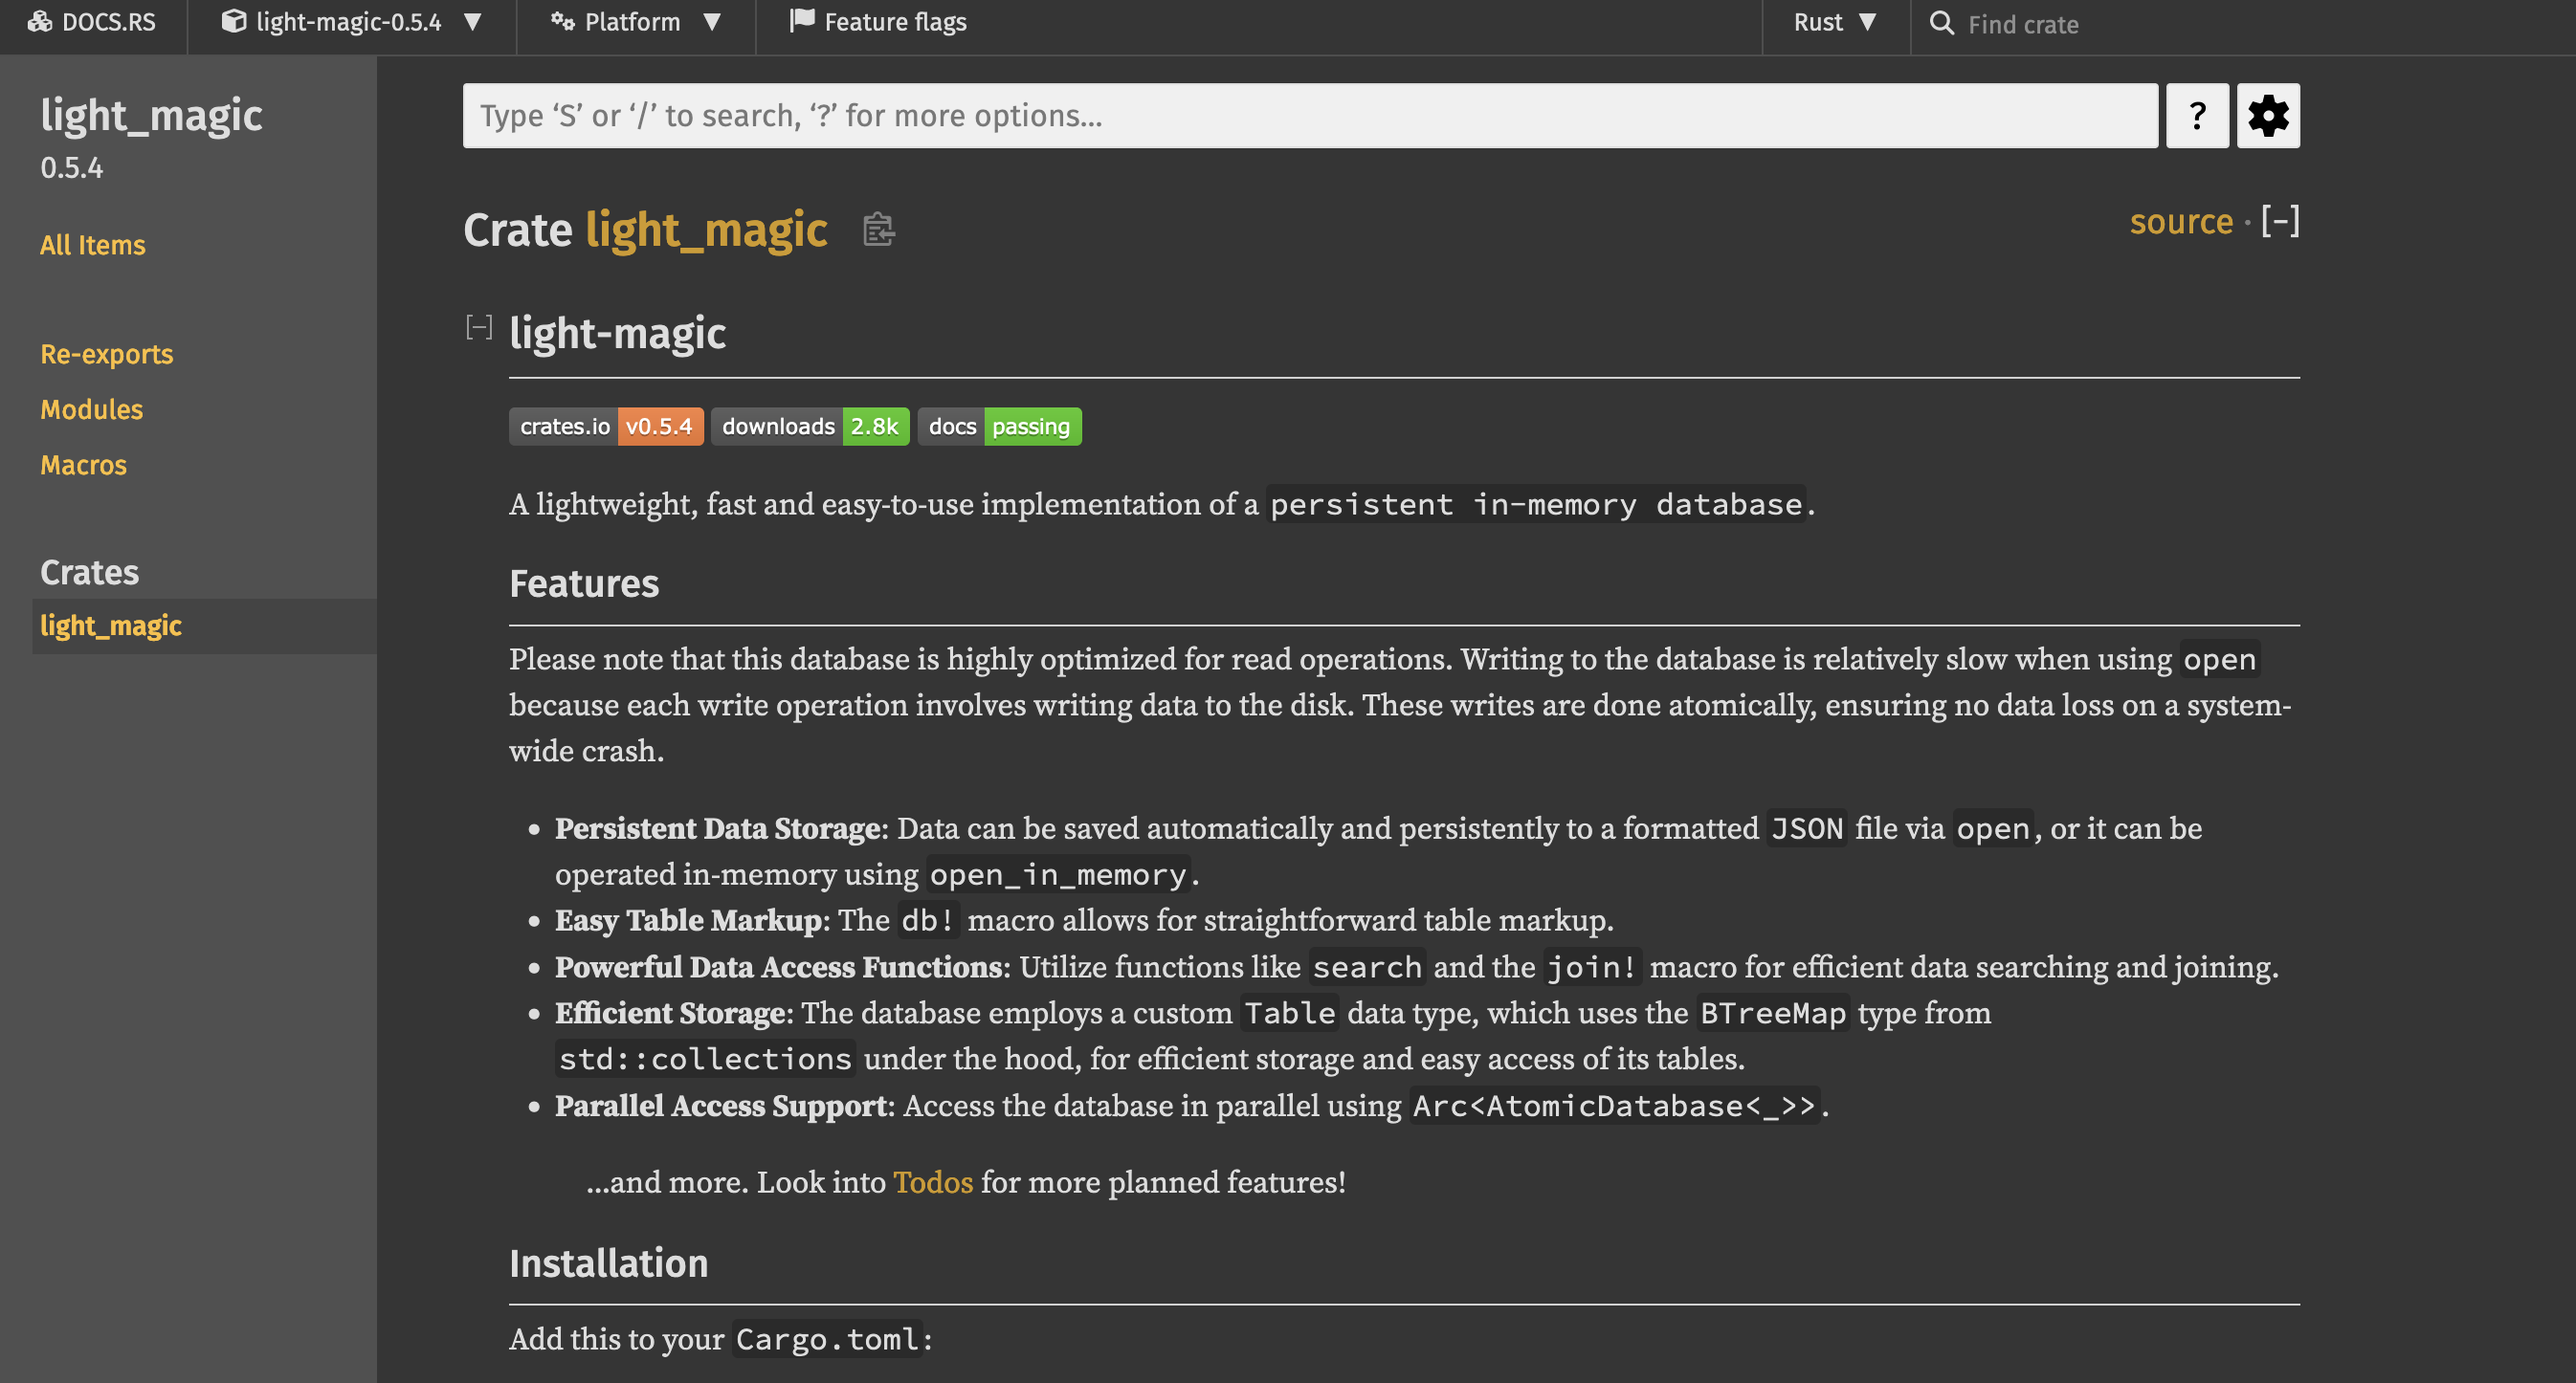
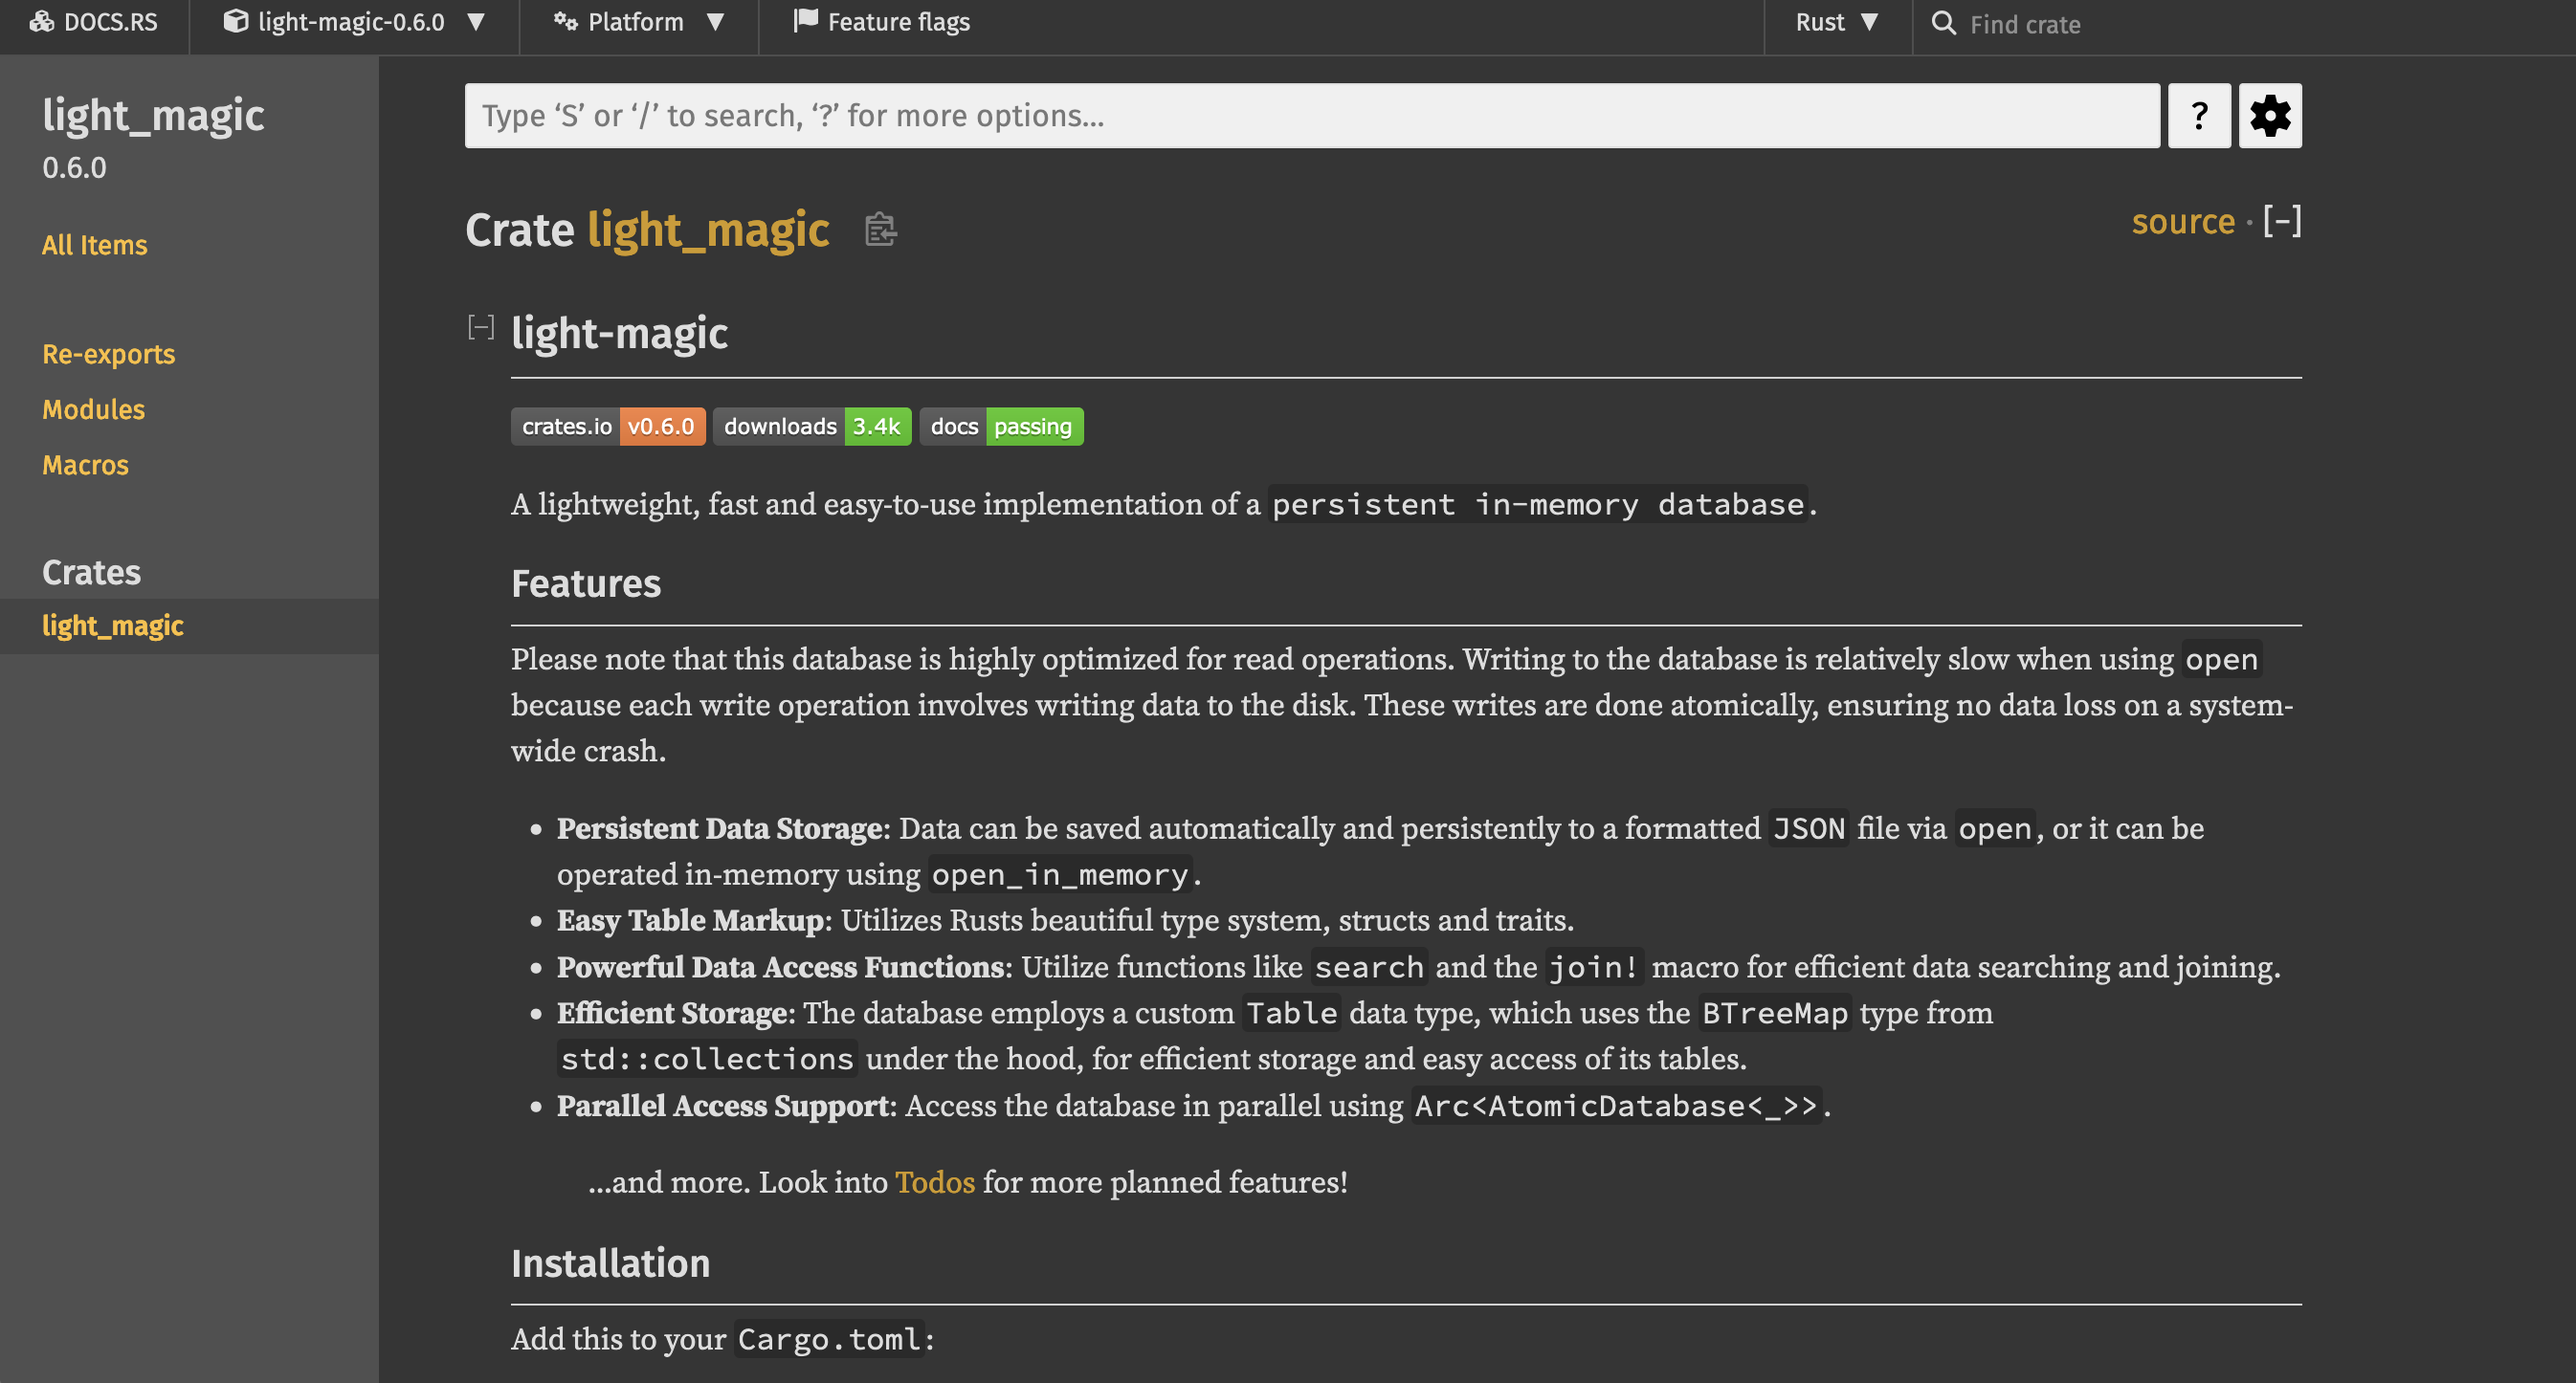
:wrench: Updated description

diff --git a/src/lib/index.ts b/src/lib/index.ts
@@ -68,7 +68,7 @@ export const projects = [
 		summary: 'A lightweight, fast and easy-to-use implementation of a persistent in-memory database',
 		picture: 'light-magic.png',
 		description:
-			'A powerful and user-friendly in-memory database crate that leverages Rust\'s standard data types, such as <code class="code">BTreeMap</code>, and the macro system for generating data types, interactions, and data operations. It features efficient <code class="code">search</code> and <code class="code">join!</code> functions for seamless data management and a <code class="code">db!</code> macro for creating you database table and scheme. Give it a try and experience the simplicity and performance of this innovative database solution!',
+			'A powerful and user-friendly in-memory database crate that extends Rust\'s standard data types, such as as the <code class="code">Table</code> type, and the macro system for generating data types, interactions, and data operations. It features efficient <code class="code">search</code> and <code class="code">join!</code> functions for seamless data management and rust\'s beautiful type system for creating the database table. Give it a try and experience the simplicity and performance of this innovative database solution!',
 		link: 'https://crates.io/crates/light-magic'
 	},
 	{
